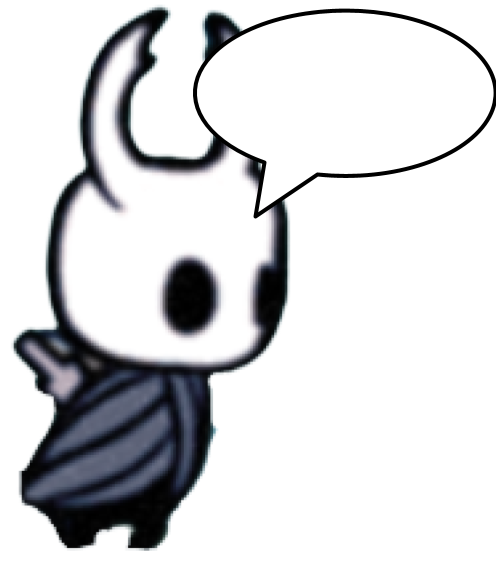
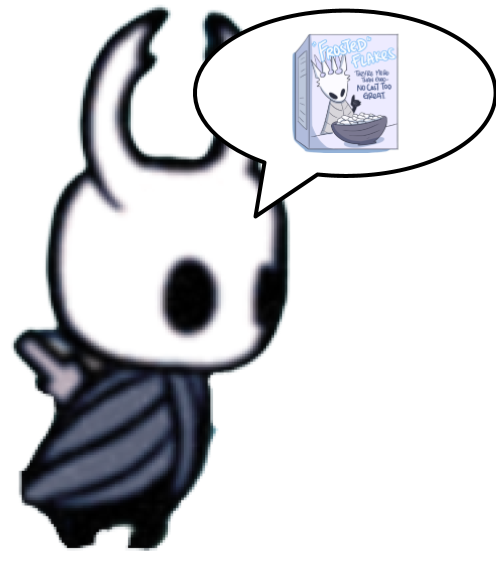
added background

Changed region(s): [[0.5746, 0.0312, 0.8165, 0.2812]]

diff --git a/src/main/DinerPanel.java b/src/main/DinerPanel.java
@@ -5,6 +5,7 @@ import java.awt.Color;
 import java.awt.Component;
 import java.awt.Font;
 import java.awt.Graphics;
+import java.awt.Image;
 import java.awt.event.*;
 import java.awt.image.BufferedImage;
 import java.io.IOException;
@@ -22,6 +23,11 @@ public class DinerPanel extends JPanel implements KeyListener, ActionListener{
 	long timer;
 	long timeLeft;
 	long start = 0;
+	
+	int minutes = 1;
+	
+	boolean isOver = false;
+	boolean isPaused = false;
 	
 	String c = "/resources/HollowKnight.png"; 
 	String order = "/resources/order.png";
@@ -48,14 +54,16 @@ public class DinerPanel extends JPanel implements KeyListener, ActionListener{
 	JLabel score;
 	int points = 0;
 	
+	Color colour = new Color(156, 234, 239);
+	
 	boolean started = false;
 	
 	DinerPanel () {
 		this.setLayout(null);
-		
+		this.setBackground(colour);
 		score = new JLabel();
 		score.setBounds(1700, 0, 200, 150);
-		score.setOpaque(true);
+		score.setOpaque(false);
 		score.setText("<html>5 minutes<br/>Goal: 20<br/>" + 
 				"Current Score: 0</html>");
 		score.setFont(new Font("Verdana",Font.BOLD,20));
@@ -100,9 +108,15 @@ public class DinerPanel extends JPanel implements KeyListener, ActionListener{
 		setFocusable(true);
 	}
 	
+	public BufferedImage resizeImage(BufferedImage originalImage, int targetWidth, int targetHeight) throws IOException {
+	    Image resultingImage = originalImage.getScaledInstance(targetWidth, targetHeight, Image.SCALE_DEFAULT);
+	    BufferedImage outputImage = new BufferedImage(targetWidth, targetHeight, BufferedImage.TYPE_INT_RGB);
+	    outputImage.getGraphics().drawImage(resultingImage, 0, 0, null);
+	    return outputImage;
+	}
+	
 	public void paintComponent (Graphics g) { 
 		super.paintComponent(g);
-		
 		synchronized (this) {
 			copycustomers = new ArrayList <Customer> (customers);
 		}
@@ -118,6 +132,9 @@ public class DinerPanel extends JPanel implements KeyListener, ActionListener{
 		if (timer - System.currentTimeMillis() >= 0) { 
 			timeLeft =timer - System.currentTimeMillis();
 		}
+		else {
+			isOver = true;
+		}
 	}
 	
 	public void update() {		
@@ -125,7 +142,7 @@ public class DinerPanel extends JPanel implements KeyListener, ActionListener{
 				"Current Score: " + points + "</html>");
 		line.updateLine();
 		line.addCount();
-	
+				
 		try {
 			line.pic = ImageIO.read(getClass().getResource(line.linepic)); // so it updates image
 		} catch (IOException e) {
@@ -214,7 +231,7 @@ public class DinerPanel extends JPanel implements KeyListener, ActionListener{
 				
 				TIMER = new timer(this);
 				timerthread = new Thread(TIMER);
-				timer= System.currentTimeMillis() + 5*60*1000;
+				timer= System.currentTimeMillis() + minutes*60*1000;
 				timerthread.start();	
 				
 			}

diff --git a/src/main/AnimateDiner.java b/src/main/AnimateDiner.java
@@ -3,8 +3,6 @@ package main;
 public class AnimateDiner implements Runnable{
 	
 	DinerPanel dp;
-	boolean isOver = false;
-	boolean isPaused = false;
 	
 	AnimateDiner (DinerPanel b) { //constructor
 		dp = b;
@@ -12,8 +10,8 @@ public class AnimateDiner implements Runnable{
 	@Override
 	public void run() {
 		// TODO Auto-generated method stub
-		while (!isOver) { //change true to when lost = false bp.lost=false
-			if (!isPaused) {
+		while (!dp.isOver) { //change true to when lost = false bp.lost=false
+			if (!dp.isPaused) {
 				dp.update();
 				try {
 					Thread.sleep(10);

diff --git a/src/main/timer.java b/src/main/timer.java
@@ -2,8 +2,6 @@ package main;
 
 public class timer implements Runnable{
 	DinerPanel dp;
-	boolean isOver = false;
-	boolean isPaused = false;
 	
 	timer (DinerPanel b) { //constructor
 		dp = b;
@@ -11,8 +9,8 @@ public class timer implements Runnable{
 	@Override
 	public void run() {
 		// TODO Auto-generated method stub
-		while (!isOver) { //change true to when lost = false bp.lost=false
-			if (!isPaused) {
+		while (!dp.isOver) { //change true to when lost = false bp.lost=false
+			if (!dp.isPaused) {
 				dp.startTimer();
 				try {
 					Thread.sleep(1000);

diff --git a/src/main/DinerGame.java b/src/main/DinerGame.java
@@ -16,8 +16,8 @@ public class DinerGame {
 		frame.setDefaultCloseOperation(JFrame.EXIT_ON_CLOSE);
 		
 		frame.setSize(1920,1080);
-		frame.setExtendedState(JFrame.MAXIMIZED_BOTH); 
-		frame.setUndecorated(true);
+	//	frame.setExtendedState(JFrame.MAXIMIZED_BOTH); 
+	//	frame.setUndecorated(true);
 		
 		frame.setResizable(false);
 		frame.setVisible(true);
